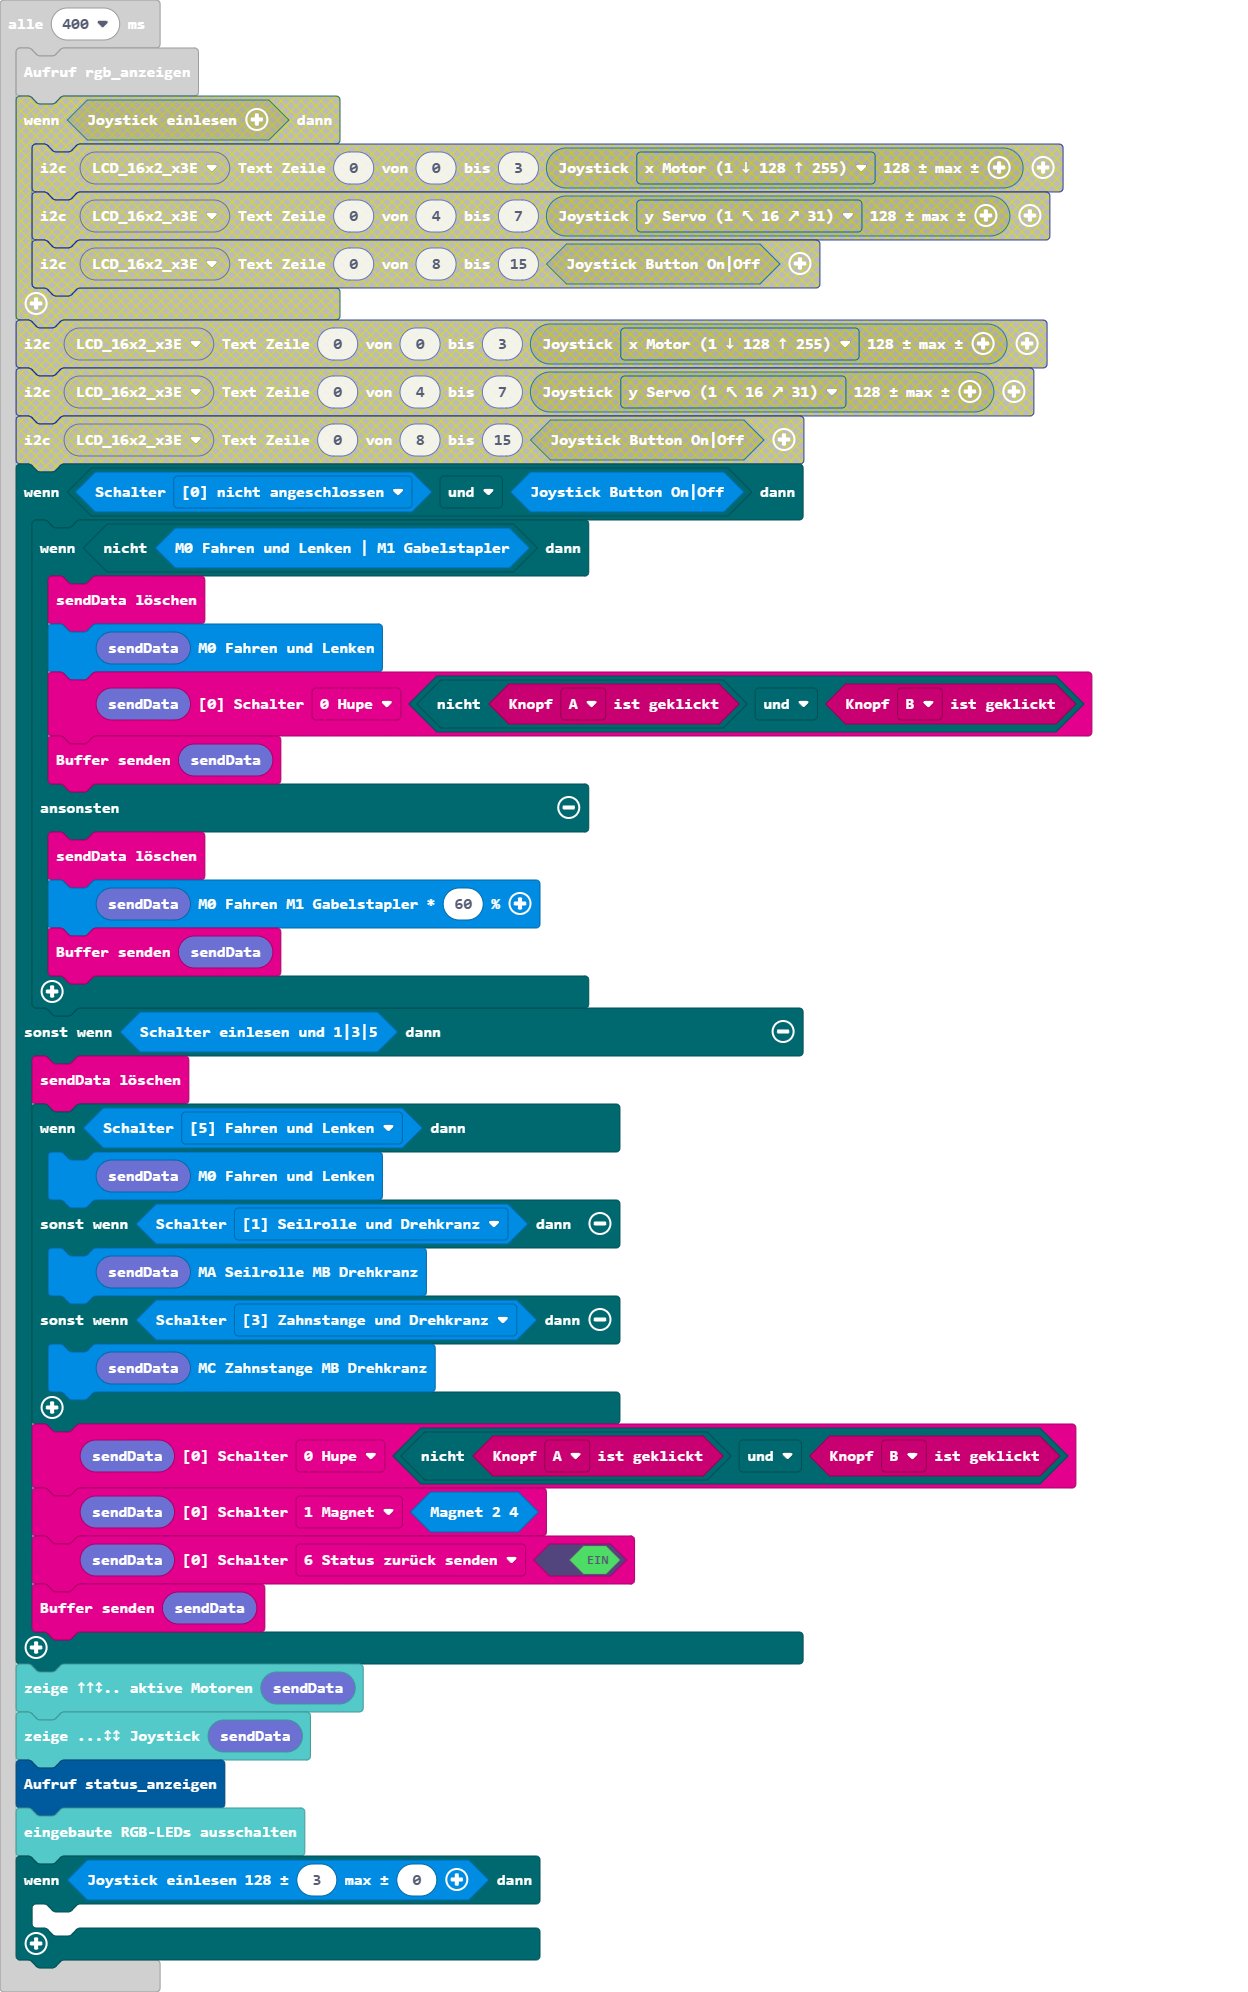
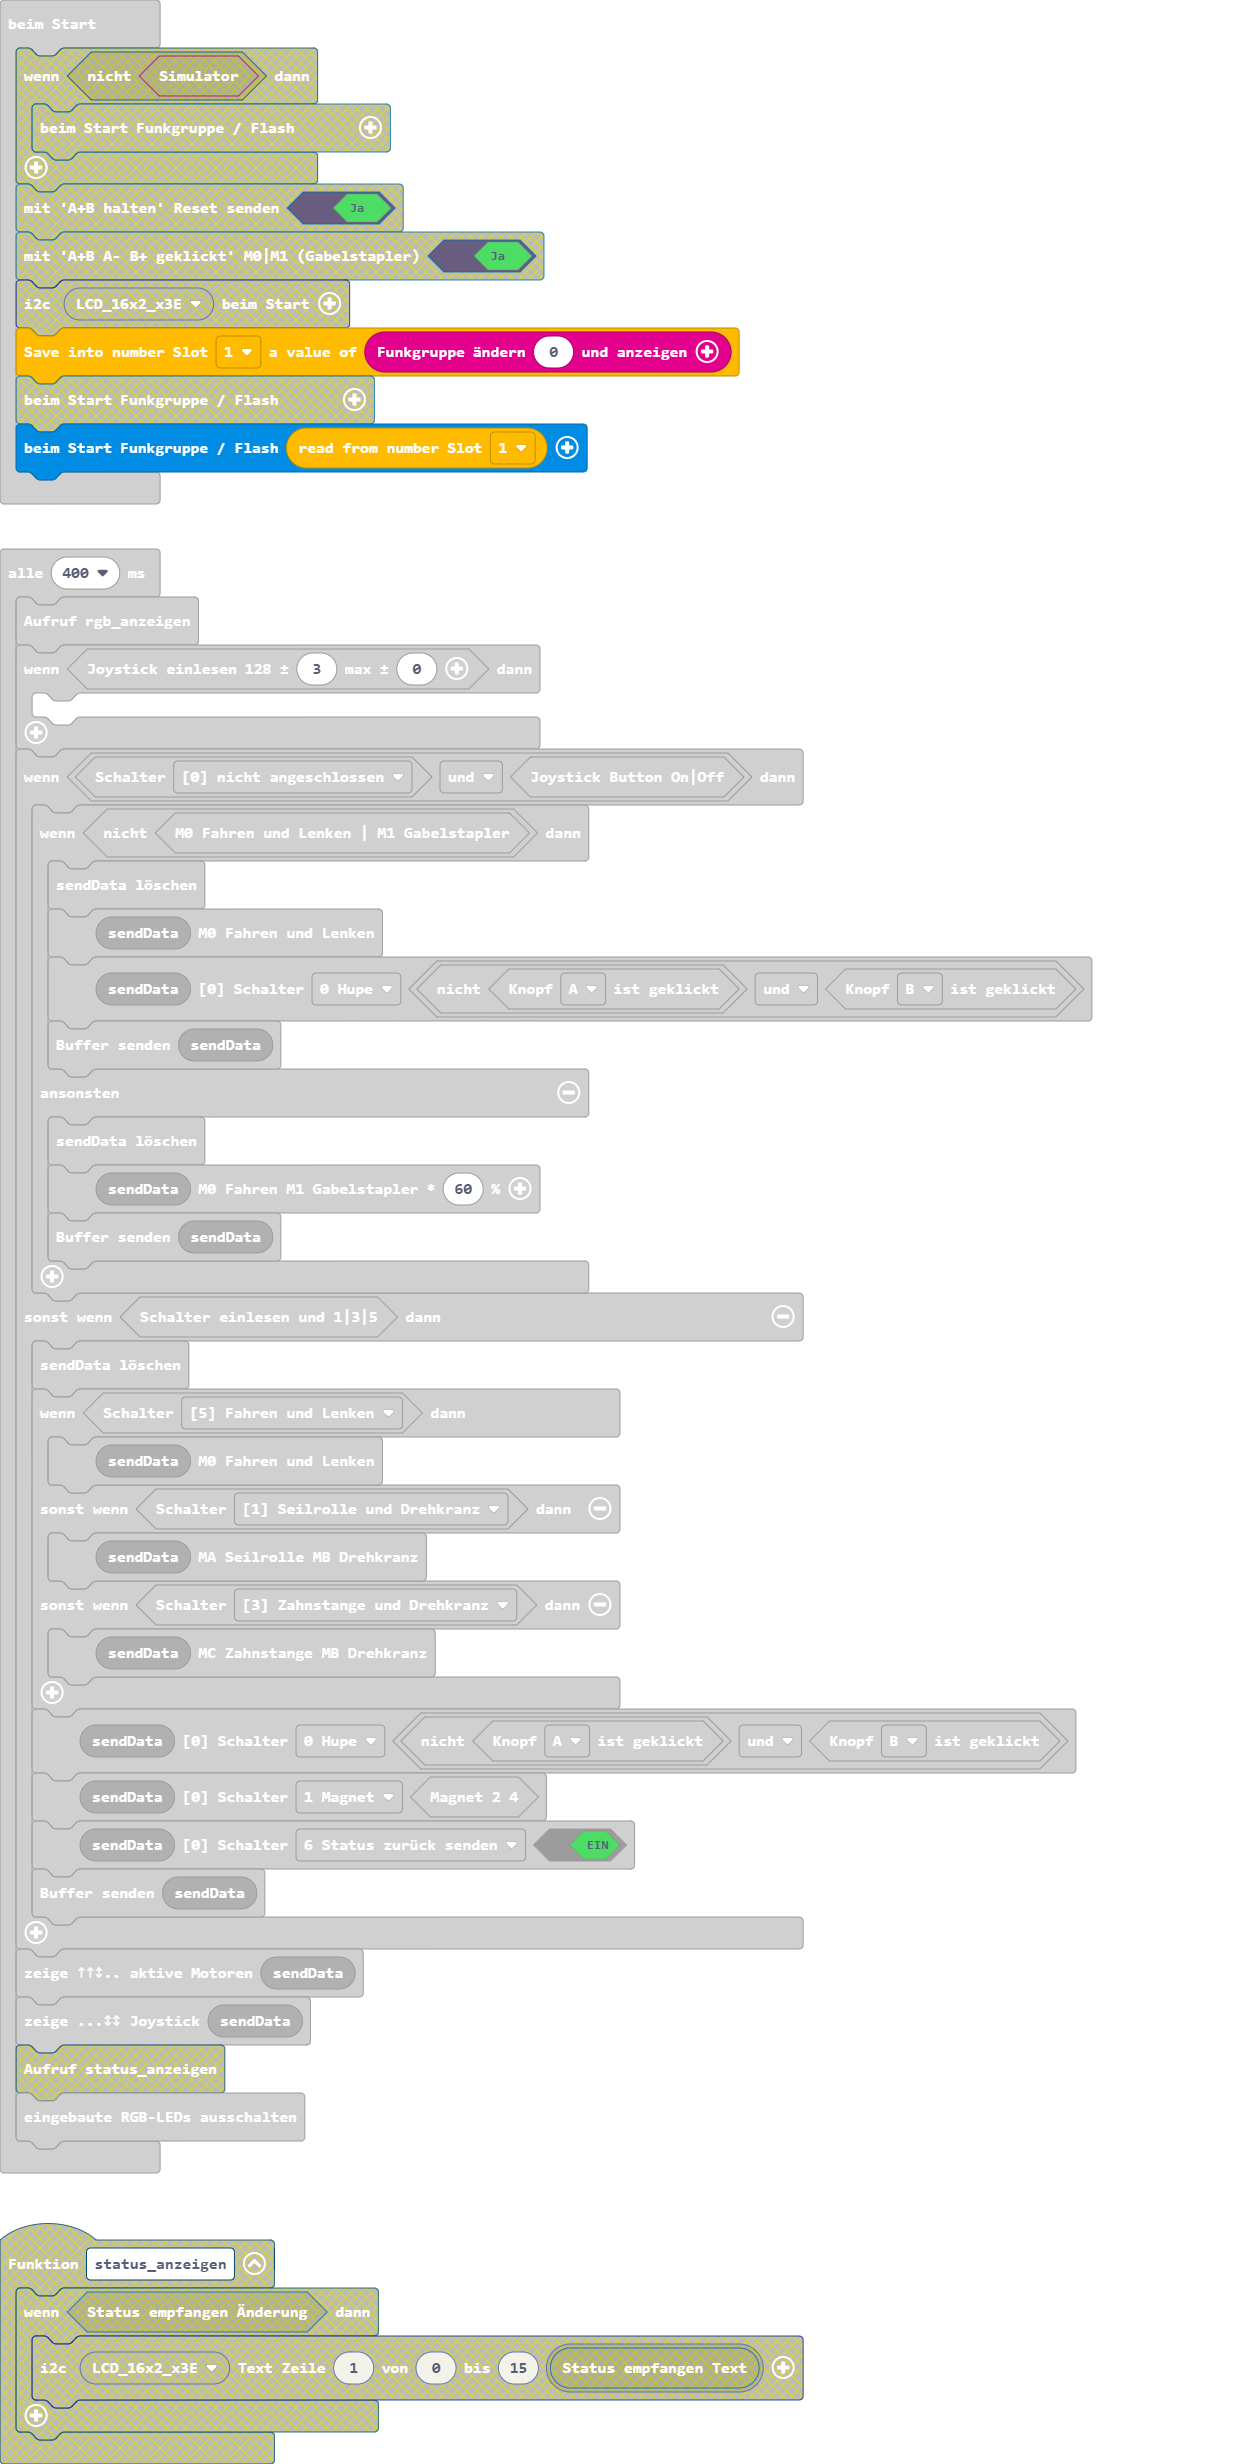
Aktualisiere pxt.json, main.blocks, main.ts

diff --git a/main.ts b/main.ts
@@ -1,8 +1,3 @@
-function status_anzeigen () {
-    if (sender.receivedStringChanged()) {
-        lcd16x2rgb.writeText(lcd16x2rgb.lcd16x2_eADDR(lcd16x2rgb.eADDR_LCD.LCD_16x2_x3E), 1, 0, 15, lcd16x2rgb.lcd16x2_text(sender.receivedStringText()))
-    }
-}
 input.onButtonEvent(Button.A, ButtonEvent.Hold, function () {
     storage.putNumber(StorageSlots.s1, radio.getFunkgruppe(-1))
 })
@@ -18,12 +13,7 @@ function rgb_anzeigen () {
         basic.setLedColor(basic.rgb(0, 7, 0))
     }
 }
-if (!(radio.simulator())) {
-    sender.beimStart(storage.getNumber(StorageSlots.s1))
-}
-sender.enableButtonSendReset(true)
-sender.enableButtonMotor1(true)
-lcd16x2rgb.initLCD(lcd16x2rgb.lcd16x2_eADDR(lcd16x2rgb.eADDR_LCD.LCD_16x2_x3E))
+sender.beimStart(storage.getNumber(StorageSlots.s1))
 storage.putNumber(StorageSlots.s1, radio.getFunkgruppe(0))
 loops.everyInterval(400, function () {
     rgb_anzeigen()
@@ -57,6 +47,5 @@ loops.everyInterval(400, function () {
     }
     radio.zeige5x5Buffer(radio.radio_sendBuffer19())
     radio.zeige5x5Joystick(radio.radio_sendBuffer19())
-    status_anzeigen()
     basic.turnRgbLedOff()
 })
